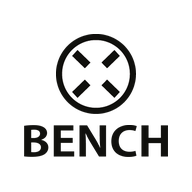
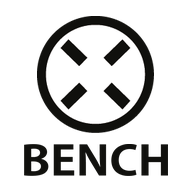
[V.0.72.039] feat(pwa): 홈 화면 바로가기 아이콘의 원형 로고 확대

Changed region(s): [[0.125, 0.0625, 0.875, 0.9375]]

diff --git a/CHANGELOG.md b/CHANGELOG.md
@@ -9,6 +9,9 @@
 - **홈 메뉴 2줄**: 모바일 홈의 메뉴 아이콘에서 출퇴근을 빼 3줄을 2줄로 줄였다. 출퇴근 카드의 왼쪽(아이콘·글자)을 누르면 월별 출퇴근 기록으로 간다. 출근·퇴근 버튼은 그대로.
 - 어두운 테마에서 글자가 안 보이던 부분(강조색 버튼 글자, 알림 토스트, 연한 빨강/회색 배지, 메신저 대화방 선택색)을 색 변수로 바꿨다. PC 화면의 모양은 바뀌지 않는다.
 
+### 홈 화면 바로가기 아이콘 로고 확대 (2026-11-05 추가, 같은 V.0.72.039)
+- 바로가기 아이콘에서 BENCH 글씨 크기는 그대로 두고 위의 원형 로고 그림을 키웠다(그림 비율 50% → 73%). 이미 홈 화면에 추가한 폰은 바로가기를 지웠다가 다시 추가해야 새 아이콘으로 바뀐다.
+
 ### 프로젝트 이름 변경, 홈 화면 앱(PWA) 아이콘 (DB 구조 변경 없음 — 앱 코드 변경 없음)
 - **프로젝트 이름 변경**: 프로젝트 상세 화면 제목 옆 연필 아이콘으로 이름을 바꾼다(`PUT /api/projects/{id}/name`). 공백을 정리하고 빈 이름·200자 초과는 거부한다. 견적서·품의서 등은 프로젝트 이름을 그때그때 불러 쓰므로 새 이름이 함께 보인다(이미 만든 PDF 파일은 다시 만들기 전까지 옛 이름).
 - **홈 화면에 추가(PWA)**: 폰 브라우저에서 [홈 화면에 추가]하면 BENCH 로고 아이콘이 생기고 `/m` 부터 전체 화면으로 열린다(`manifest.webmanifest`, 아이콘 4종). 서비스 워커는 쓰지 않아 배포하면 다음에 열 때 바로 최신 화면이 뜬다. HTTPS 주소에서만 설치할 수 있다.
